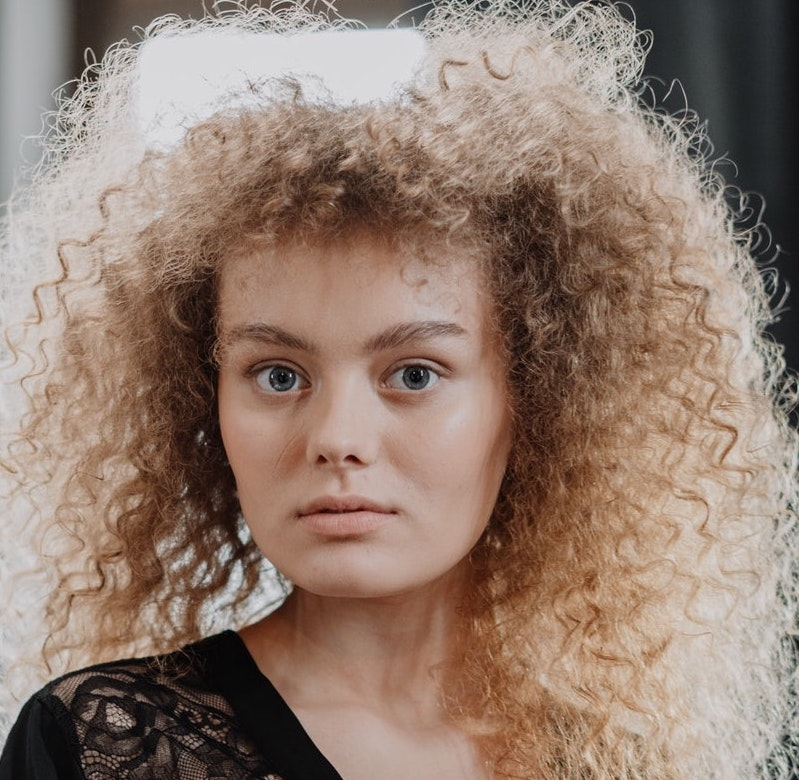
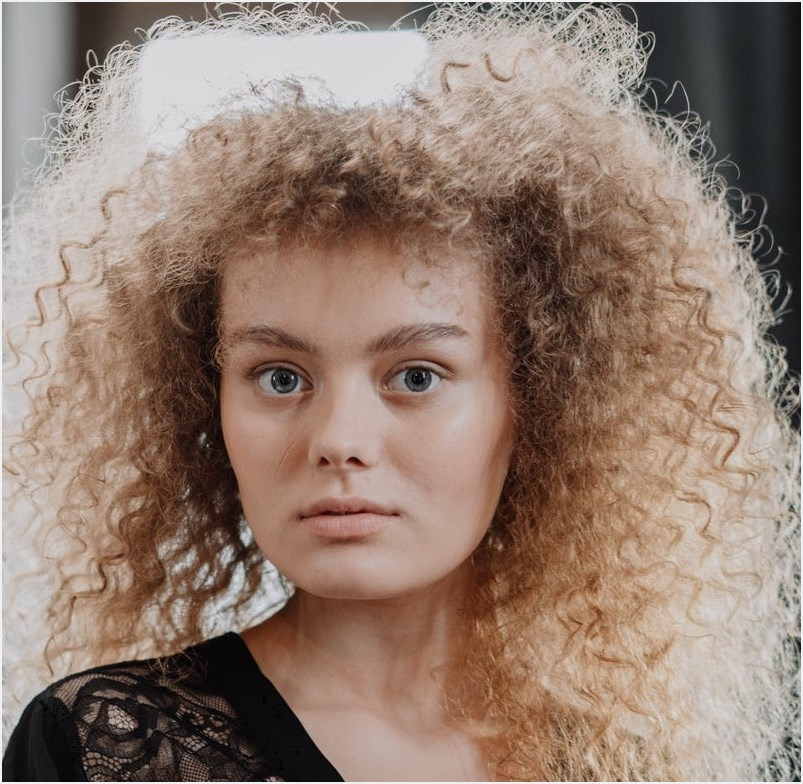
Details more the README

diff --git a/README.md b/README.md
@@ -1,1 +1,13 @@
-![](https://github.com/JujuDel/VirtualMakeUp/blob/master/data/VirtualMakeUp.gif)
+# VirtualMakeUp tool
+
+Before | After
+:---: | :---:
+![](https://github.com/JujuDel/VirtualMakeUp/blob/master/data/images/girl-no-makeup.jpg) | ![](https://github.com/JujuDel/VirtualMakeUp/blob/master/data/images/after.jpg)
+
+## Lips
+
+![](https://github.com/JujuDel/VirtualMakeUp/blob/master/data/lips.gif)
+
+## Eyes
+
+![](https://github.com/JujuDel/VirtualMakeUp/blob/master/data/eyes.gif)
